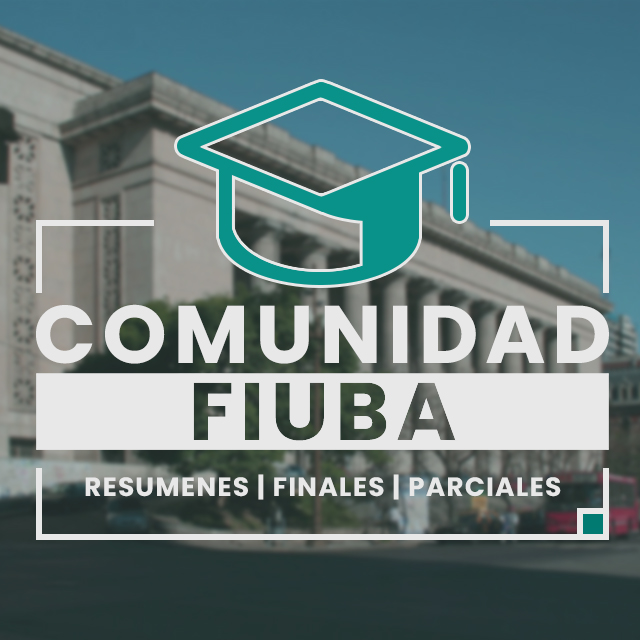
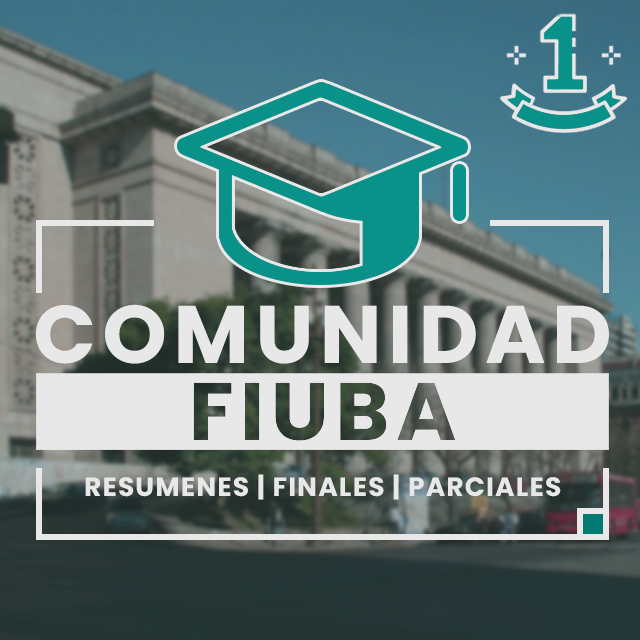
Mejores textos

Changed region(s): [[0.7812, 0.0, 0.9688, 0.2188], [0.9375, 0.0625, 0.9688, 0.0938], [0.7812, 0.0625, 0.8125, 0.0938]]

diff --git a/public/index.html b/public/index.html
@@ -12,12 +12,12 @@
     <link rel="icon" type="image/x-icon" href="/concepto_7.png">
     <!-- Google -->
     <meta itemprop="name" content="IETAC" />
-    <meta name="description" content="En Comunidad Fiuba cientos de alumnos de la FIUBA comparten material de estudio para ayudarte a cursar ¡Unite a esta gran comunidad para compartir y encontrar nuevo material de estudio!" />
+    <meta name="description" content="Mas de mil alumnos ya compartieron su material de estudio en Comunidad Fiuba ¿Te vas a quedar afuera? Sumate a compartir en la comunidad mas popular de la FIUBA!" />
     <meta name="image" content="https://comunidad-fiuba.github.io/concepto_7.png" />
     <meta name="google-site-verification" content="Z8Vq9QtZr9KvV5CUb0T-jzS5AbPFjLiHKDWEKyz514M" />
     <!-- OG -->
     <meta property="og:title" content="Comunidad Fiuba"/>
-    <meta property="og:description" content="Un lugar, todo el material."/>
+    <meta property="og:description" content="Sumate, no te quedes afuera."/>
     <meta property="og:type" content="blog"/>
     <meta property="og:url" content="https://comunidad-fiuba.github.io"/>
     <meta property="og:locale" content="es_ES" />

diff --git a/src/Pages/Home.js b/src/Pages/Home.js
@@ -211,7 +211,7 @@ export function Home({archivosSubidos, postsLikes,
                 <h1 className={styles.mainTitulo}
                     onClick={e =>{ navigate("/")
                     window.location.reload()}}>Comunidad Fiuba</h1>
-                <h3 style={{position:"relative",fontWeight:"lighter", margin:"0px", textAlign:"center"}}>Tu aporte ayuda a todos, <b>sumate a compartir</b> y ser parte de esta comunidad. Página FIUBA <b>no oficial</b>.</h3>
+                <h3 style={{position:"relative",fontWeight:"lighter", margin:"0px", textAlign:"center"}}>Te ayudamos a aprobar, <b>sumate a compartir</b> para ser parte de la comunidad. Página FIUBA <b>no oficial</b>.</h3>
                 <div className={styles.subrrayado}></div>
                 <div className={styles.publicar}>
                     <div className={styles.publicarLineaIzq}></div>

diff --git a/src/Components/Archivos.js b/src/Components/Archivos.js
@@ -72,7 +72,7 @@ export function Archivos({archivosSubidos,showAlert, postsLikes, setPostsLikes, 
                     }
                 }}
             />
-            <p style={{textAlign:"center", padding:"0 20px"}}>Sumáte a la Comunidad compartiendo los examenes y resumenes para que todos los puedan aprovechar</p>
+            <p style={{textAlign:"center", padding:"0 20px"}}><b>No te quedes afuera</b>, sumáte a la Comunidad compartiendo tus examenes y resumenes.</p>
         </div>
 
     )

diff --git a/src/Pages/Top.js b/src/Pages/Top.js
@@ -32,7 +32,7 @@ export function Top({archivos}){
         const topList = [...topUsers]
         return(<section className={styles.topSection} style={{userSelect:"none"}}>
             <div className={styles.topSectionHeader}>
-                <h2>Top Creadores</h2>
+                <h2>Más valorados</h2>
             </div>
                 <ol className={styles.topList}>
                 <li>
